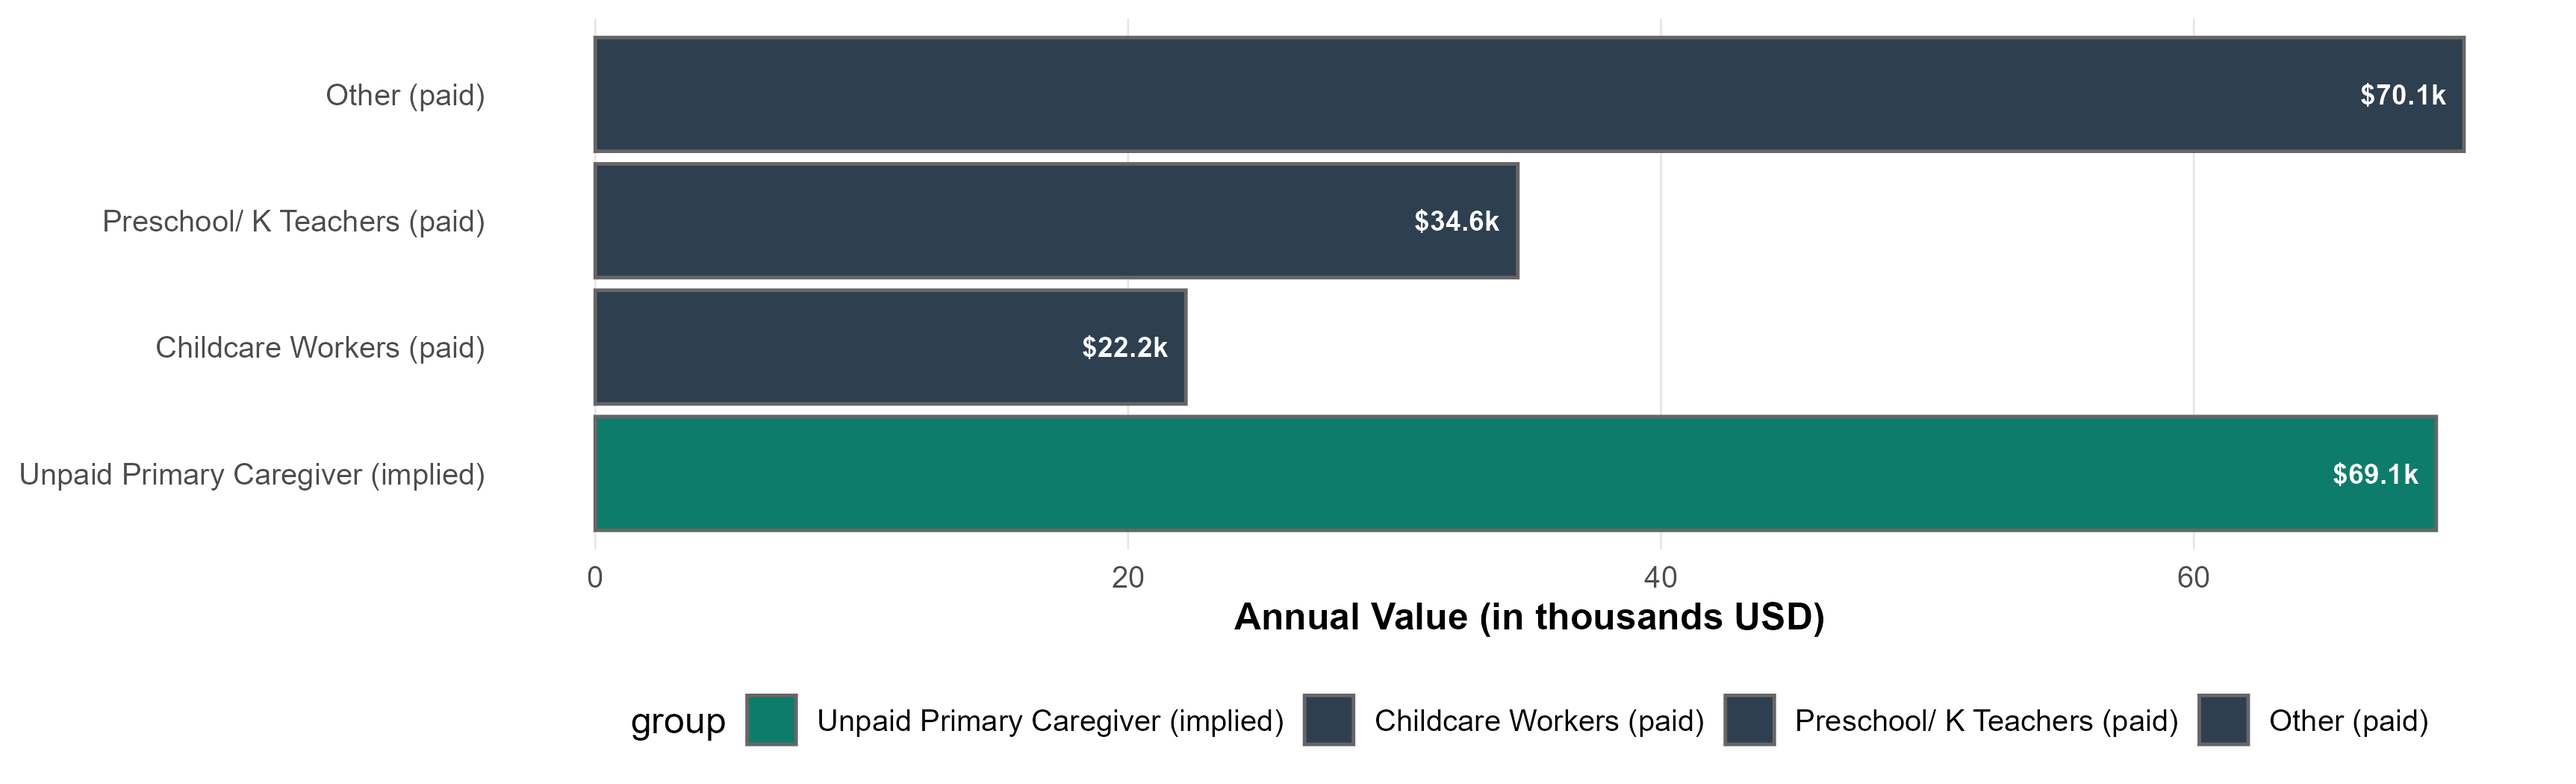
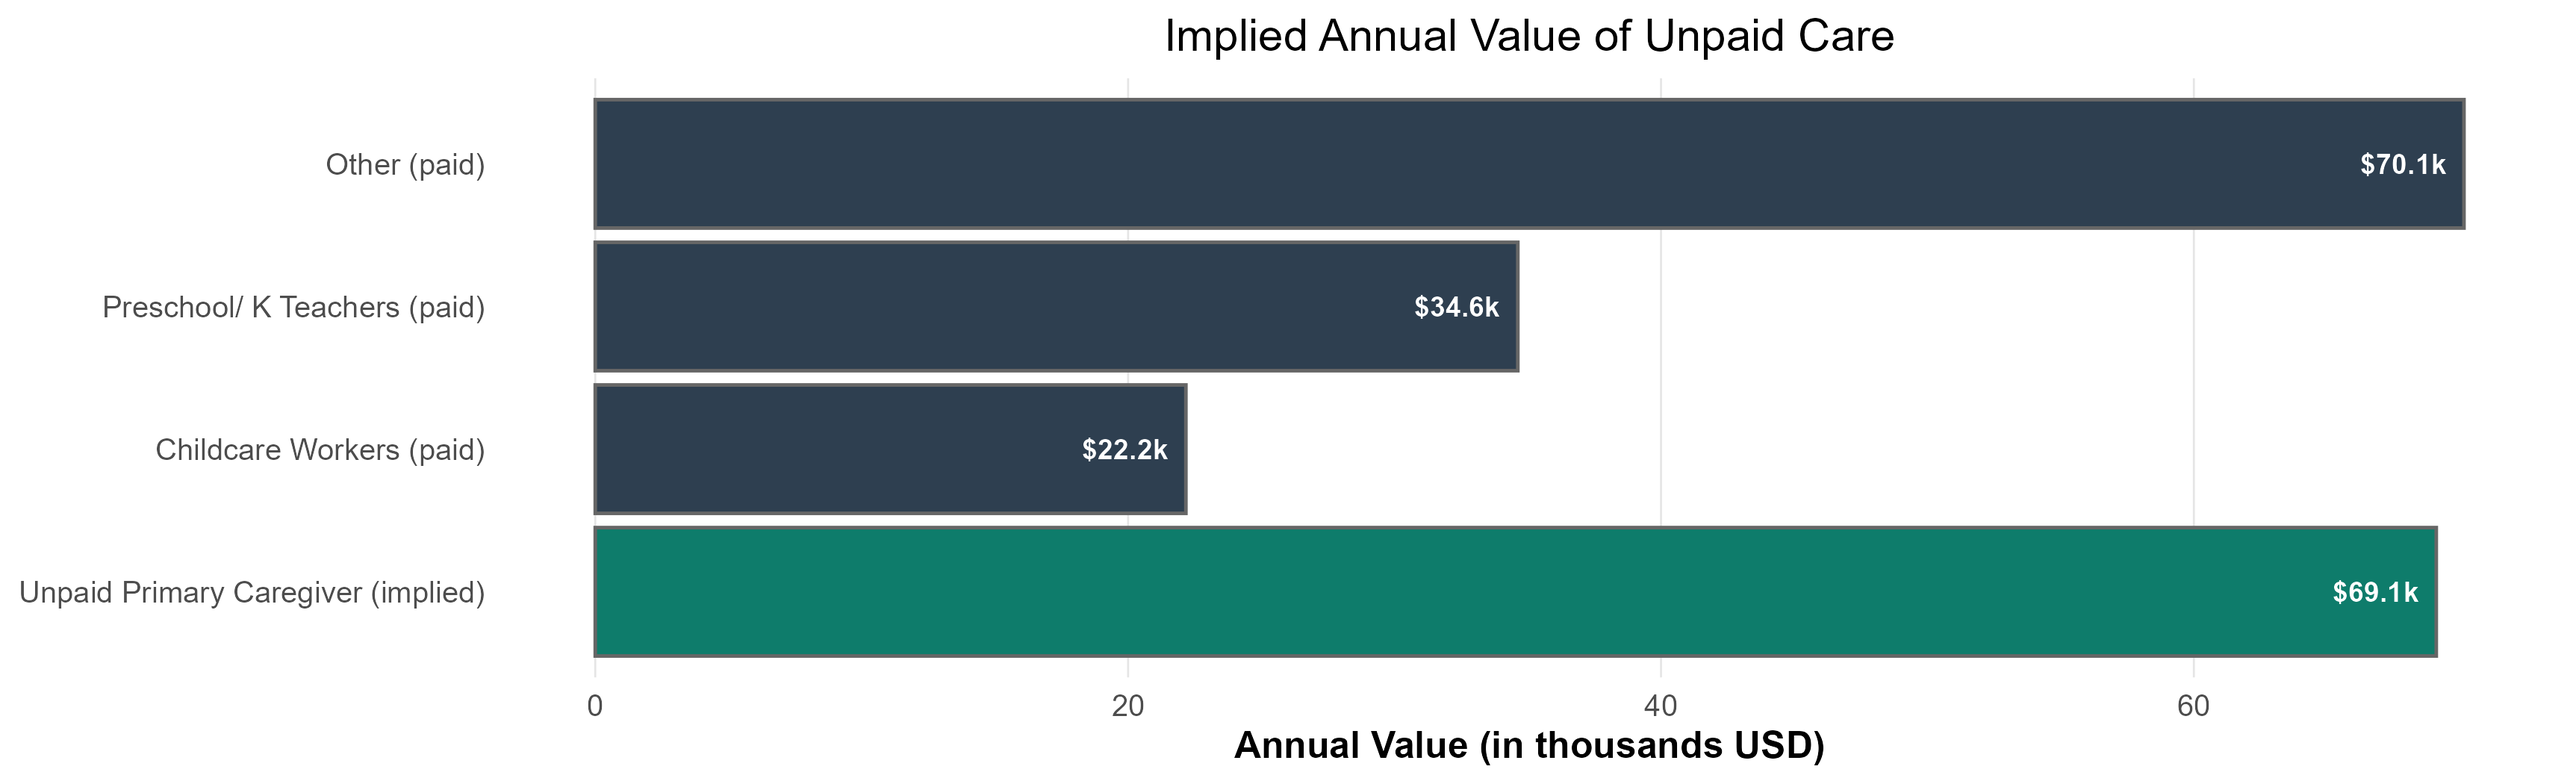
Added a title to Implied Annual Value of Unpaid Care figure.

diff --git a/docs/analysis/02_paid_childcare_cps.html b/docs/analysis/02_paid_childcare_cps.html
@@ -1269,7 +1269,7 @@ Levels: Childcare Workers Preschool/ K Teachers Other</code></pre>
 <span id="cb60-6"><a href="#cb60-6" aria-hidden="true" tabindex="-1"></a>  <span class="st">"Other (paid)"</span>                       <span class="ot">=</span> <span class="st">"#8FB3D9"</span>    <span class="co"># uniform blue</span></span>
 <span id="cb60-7"><a href="#cb60-7" aria-hidden="true" tabindex="-1"></a>) </span></code></pre></div><button title="Copy to Clipboard" class="code-copy-button"><i class="bi"></i></button></div>
 </div>
-<p><strong>Implied Annual Value of Unpaid Care B</strong></p>
+<p><strong>Implied Annual Value of Unpaid Care</strong></p>
 <div class="cell">
 <div class="code-copy-outer-scaffold"><div class="sourceCode cell-code" id="cb61"><pre class="sourceCode r code-with-copy"><code class="sourceCode r"><span id="cb61-1"><a href="#cb61-1" aria-hidden="true" tabindex="-1"></a><span class="co"># Color palette: unpaid highlighted, paid uniform</span></span>
 <span id="cb61-2"><a href="#cb61-2" aria-hidden="true" tabindex="-1"></a>val_colors <span class="ot">&lt;-</span> <span class="fu">c</span>(</span>
@@ -1302,19 +1302,20 @@ Levels: Childcare Workers Preschool/ K Teachers Other</code></pre>
 <span id="cb61-29"><a href="#cb61-29" aria-hidden="true" tabindex="-1"></a>  ) <span class="sc">+</span></span>
 <span id="cb61-30"><a href="#cb61-30" aria-hidden="true" tabindex="-1"></a>  <span class="fu">scale_fill_manual</span>(<span class="at">values =</span> val_colors) <span class="sc">+</span></span>
 <span id="cb61-31"><a href="#cb61-31" aria-hidden="true" tabindex="-1"></a>  <span class="fu">labs</span>(</span>
-<span id="cb61-32"><a href="#cb61-32" aria-hidden="true" tabindex="-1"></a>    <span class="at">x =</span> <span class="cn">NULL</span>,</span>
-<span id="cb61-33"><a href="#cb61-33" aria-hidden="true" tabindex="-1"></a>    <span class="at">y =</span> <span class="st">"Annual Value (in thousands USD)"</span></span>
-<span id="cb61-34"><a href="#cb61-34" aria-hidden="true" tabindex="-1"></a>  ) <span class="sc">+</span></span>
-<span id="cb61-35"><a href="#cb61-35" aria-hidden="true" tabindex="-1"></a>  <span class="fu">coord_flip</span>() <span class="sc">+</span></span>
-<span id="cb61-36"><a href="#cb61-36" aria-hidden="true" tabindex="-1"></a>  <span class="fu">theme_minimal</span>(<span class="at">base_size =</span> <span class="dv">12</span>) <span class="sc">+</span></span>
-<span id="cb61-37"><a href="#cb61-37" aria-hidden="true" tabindex="-1"></a>  <span class="fu">theme</span>(</span>
-<span id="cb61-38"><a href="#cb61-38" aria-hidden="true" tabindex="-1"></a>    <span class="at">plot.title =</span> <span class="fu">element_text</span>(<span class="at">hjust =</span> <span class="fl">0.5</span>),</span>
-<span id="cb61-39"><a href="#cb61-39" aria-hidden="true" tabindex="-1"></a>    <span class="at">panel.grid.minor   =</span> <span class="fu">element_blank</span>(),   </span>
-<span id="cb61-40"><a href="#cb61-40" aria-hidden="true" tabindex="-1"></a>    <span class="at">panel.grid.major.y =</span> <span class="fu">element_blank</span>(),    </span>
-<span id="cb61-41"><a href="#cb61-41" aria-hidden="true" tabindex="-1"></a>    <span class="at">panel.grid.major.x =</span> <span class="fu">element_line</span>(<span class="at">color =</span> <span class="st">"grey90"</span>, <span class="at">linewidth =</span> <span class="fl">0.3</span>),</span>
-<span id="cb61-42"><a href="#cb61-42" aria-hidden="true" tabindex="-1"></a>    <span class="at">axis.title         =</span> <span class="fu">element_text</span>(<span class="at">face =</span> <span class="st">"bold"</span>),</span>
-<span id="cb61-43"><a href="#cb61-43" aria-hidden="true" tabindex="-1"></a>    <span class="at">legend.position    =</span> <span class="st">"bottom"</span></span>
-<span id="cb61-44"><a href="#cb61-44" aria-hidden="true" tabindex="-1"></a>  )</span></code></pre></div><button title="Copy to Clipboard" class="code-copy-button"><i class="bi"></i></button></div>
+<span id="cb61-32"><a href="#cb61-32" aria-hidden="true" tabindex="-1"></a>    <span class="at">title =</span> <span class="st">"Implied Annual Value of Unpaid Care"</span>,</span>
+<span id="cb61-33"><a href="#cb61-33" aria-hidden="true" tabindex="-1"></a>    <span class="at">x =</span> <span class="cn">NULL</span>,</span>
+<span id="cb61-34"><a href="#cb61-34" aria-hidden="true" tabindex="-1"></a>    <span class="at">y =</span> <span class="st">"Annual Value (in thousands USD)"</span></span>
+<span id="cb61-35"><a href="#cb61-35" aria-hidden="true" tabindex="-1"></a>  ) <span class="sc">+</span></span>
+<span id="cb61-36"><a href="#cb61-36" aria-hidden="true" tabindex="-1"></a>  <span class="fu">coord_flip</span>() <span class="sc">+</span></span>
+<span id="cb61-37"><a href="#cb61-37" aria-hidden="true" tabindex="-1"></a>  <span class="fu">theme_minimal</span>(<span class="at">base_size =</span> <span class="dv">12</span>) <span class="sc">+</span></span>
+<span id="cb61-38"><a href="#cb61-38" aria-hidden="true" tabindex="-1"></a>  <span class="fu">theme</span>(</span>
+<span id="cb61-39"><a href="#cb61-39" aria-hidden="true" tabindex="-1"></a>    <span class="at">plot.title =</span> <span class="fu">element_text</span>(<span class="at">hjust =</span> <span class="fl">0.5</span>),</span>
+<span id="cb61-40"><a href="#cb61-40" aria-hidden="true" tabindex="-1"></a>    <span class="at">panel.grid.minor   =</span> <span class="fu">element_blank</span>(),   </span>
+<span id="cb61-41"><a href="#cb61-41" aria-hidden="true" tabindex="-1"></a>    <span class="at">panel.grid.major.y =</span> <span class="fu">element_blank</span>(),    </span>
+<span id="cb61-42"><a href="#cb61-42" aria-hidden="true" tabindex="-1"></a>    <span class="at">panel.grid.major.x =</span> <span class="fu">element_line</span>(<span class="at">color =</span> <span class="st">"grey90"</span>, <span class="at">linewidth =</span> <span class="fl">0.3</span>),</span>
+<span id="cb61-43"><a href="#cb61-43" aria-hidden="true" tabindex="-1"></a>    <span class="at">axis.title         =</span> <span class="fu">element_text</span>(<span class="at">face =</span> <span class="st">"bold"</span>),</span>
+<span id="cb61-44"><a href="#cb61-44" aria-hidden="true" tabindex="-1"></a>    <span class="at">legend.position    =</span> <span class="st">"none"</span></span>
+<span id="cb61-45"><a href="#cb61-45" aria-hidden="true" tabindex="-1"></a>  )</span></code></pre></div><button title="Copy to Clipboard" class="code-copy-button"><i class="bi"></i></button></div>
 <div class="cell-output-display">
 <div>
 <figure class="figure">
@@ -1322,7 +1323,7 @@ Levels: Childcare Workers Preschool/ K Teachers Other</code></pre>
 </figure>
 </div>
 </div>
-<div class="code-copy-outer-scaffold"><div class="sourceCode cell-code" id="cb62"><pre class="sourceCode r code-with-copy"><code class="sourceCode r"><span id="cb62-1"><a href="#cb62-1" aria-hidden="true" tabindex="-1"></a><span class="fu">ggsave</span>(<span class="st">"fig7.png"</span>, <span class="at">width =</span> <span class="fl">6.5</span>, <span class="at">height =</span> <span class="fl">3.5</span>, <span class="at">dpi =</span> <span class="dv">300</span>)</span></code></pre></div><button title="Copy to Clipboard" class="code-copy-button"><i class="bi"></i></button></div>
+<div class="code-copy-outer-scaffold"><div class="sourceCode cell-code" id="cb62"><pre class="sourceCode r code-with-copy"><code class="sourceCode r"><span id="cb62-1"><a href="#cb62-1" aria-hidden="true" tabindex="-1"></a><span class="fu">ggsave</span>(<span class="st">"fig7.png"</span>, <span class="at">width =</span> <span class="fl">11.5</span>, <span class="at">height =</span> <span class="fl">3.5</span>, <span class="at">dpi =</span> <span class="dv">300</span>)</span></code></pre></div><button title="Copy to Clipboard" class="code-copy-button"><i class="bi"></i></button></div>
 </div>
 
 
